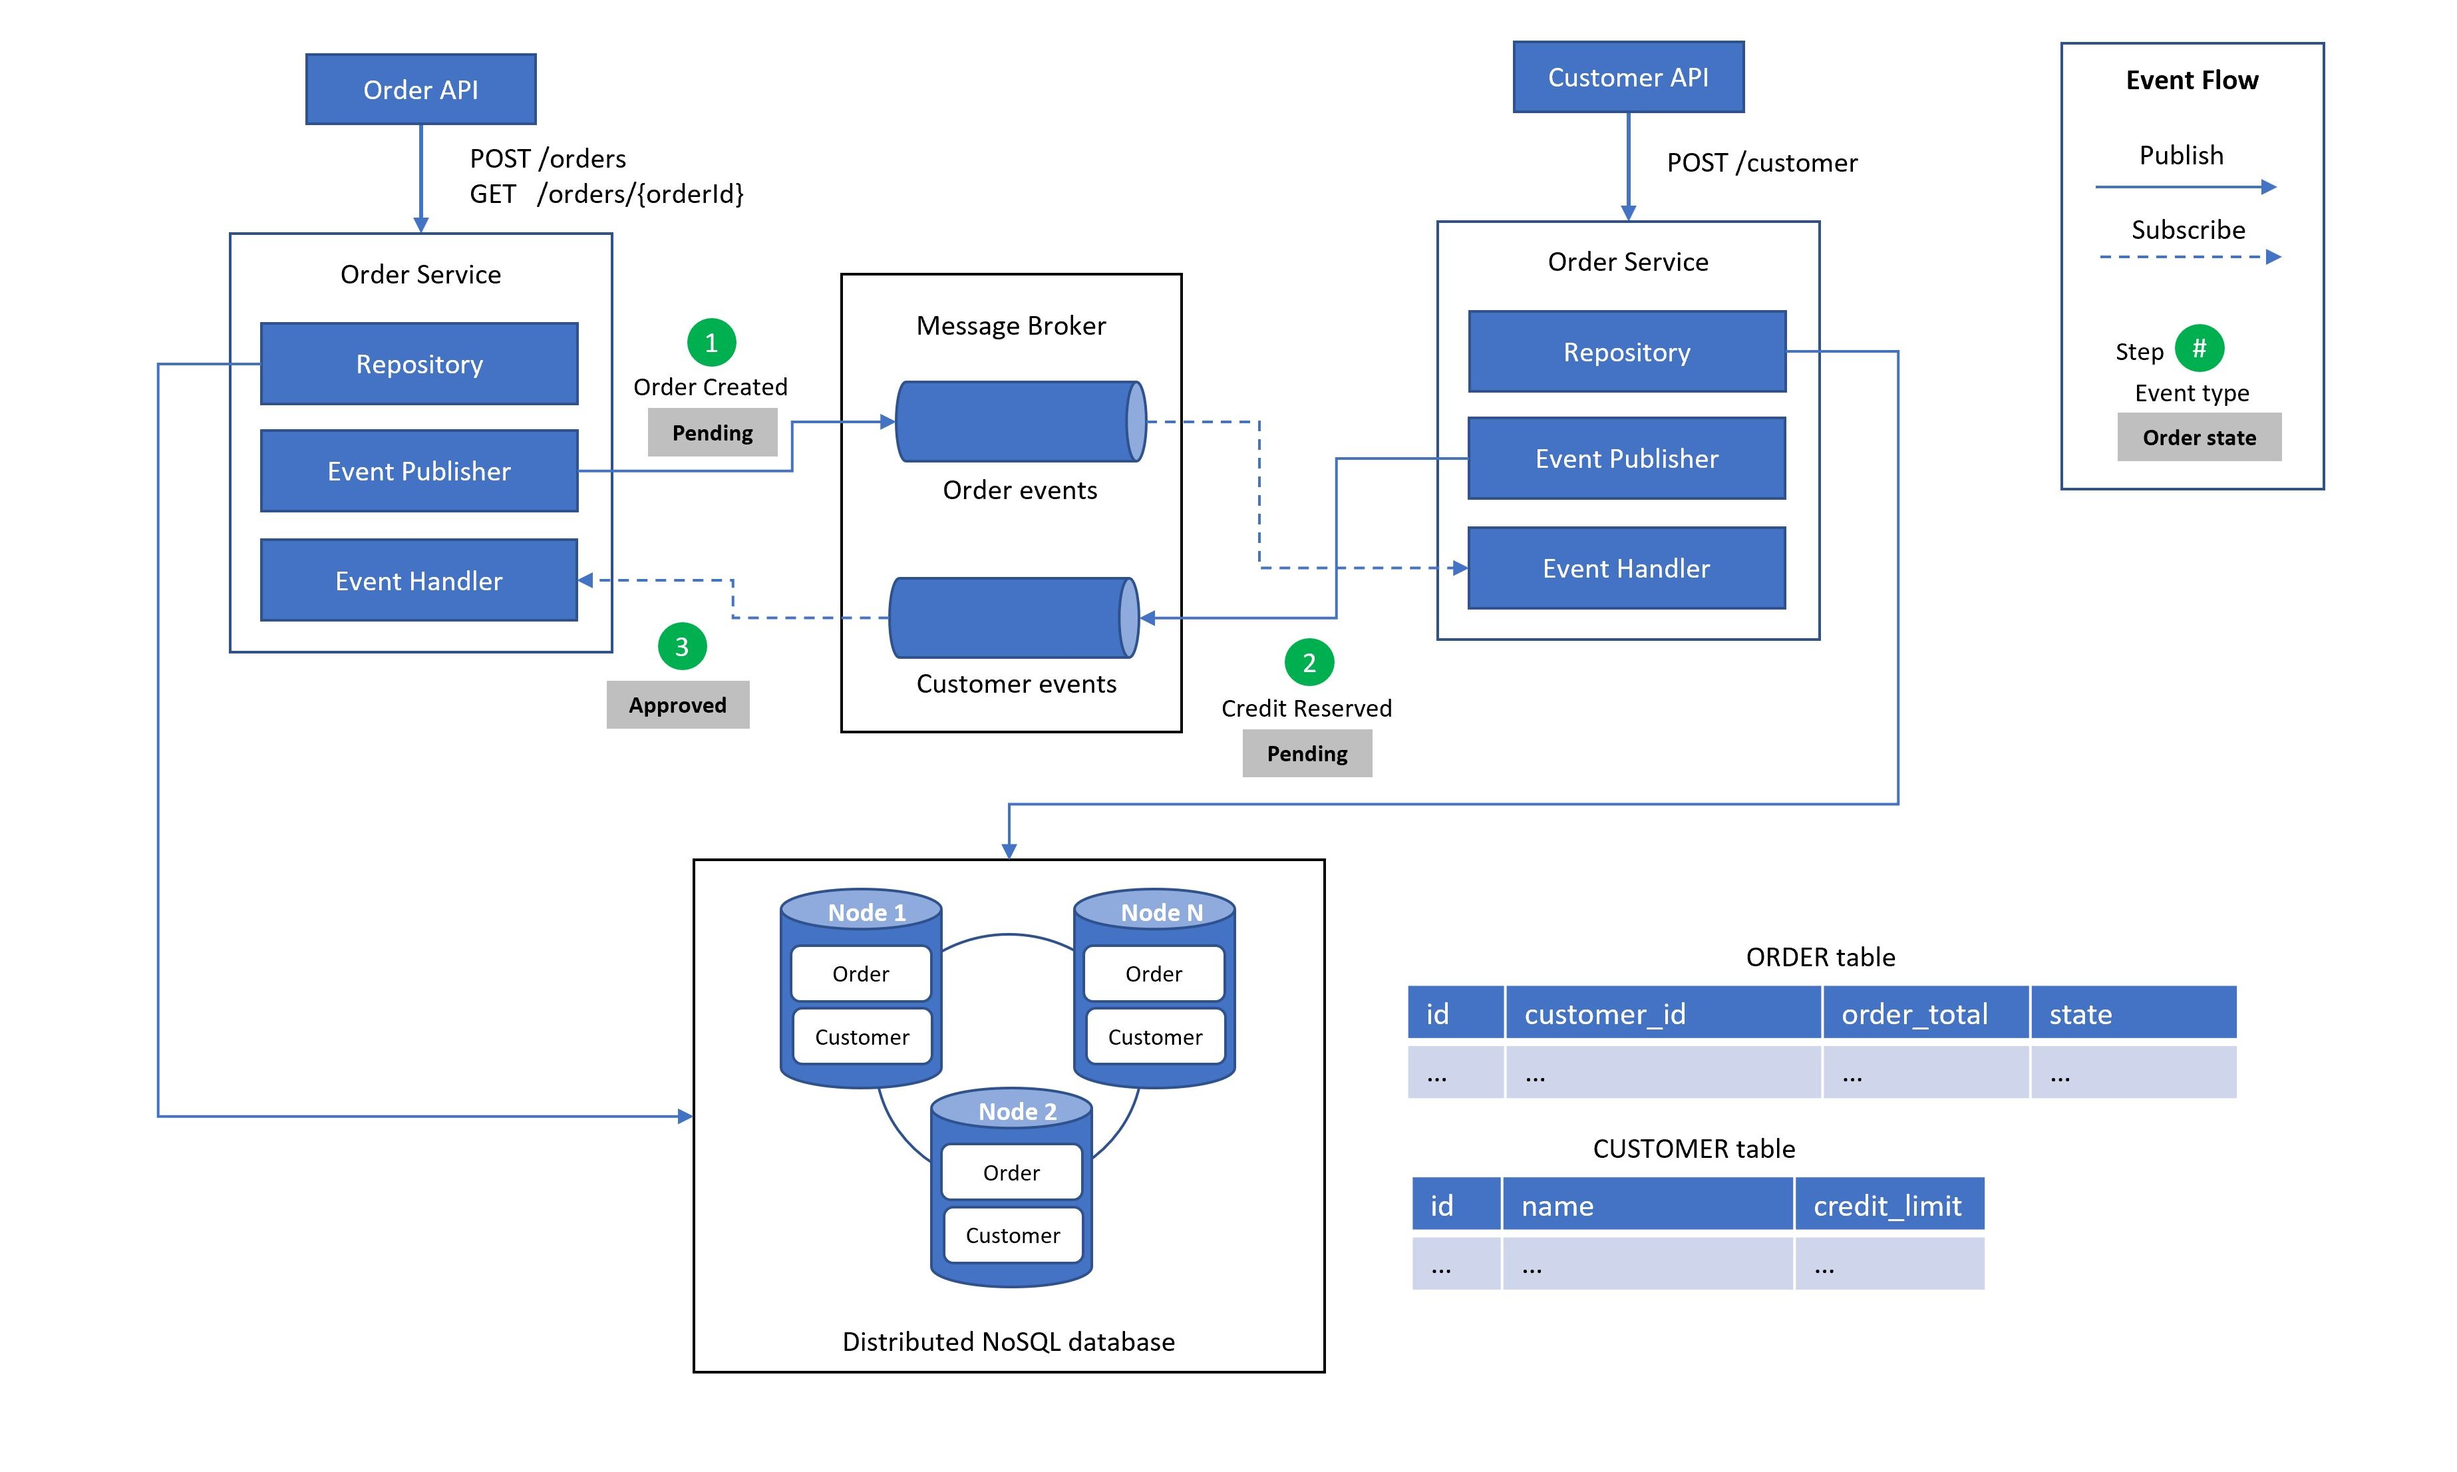
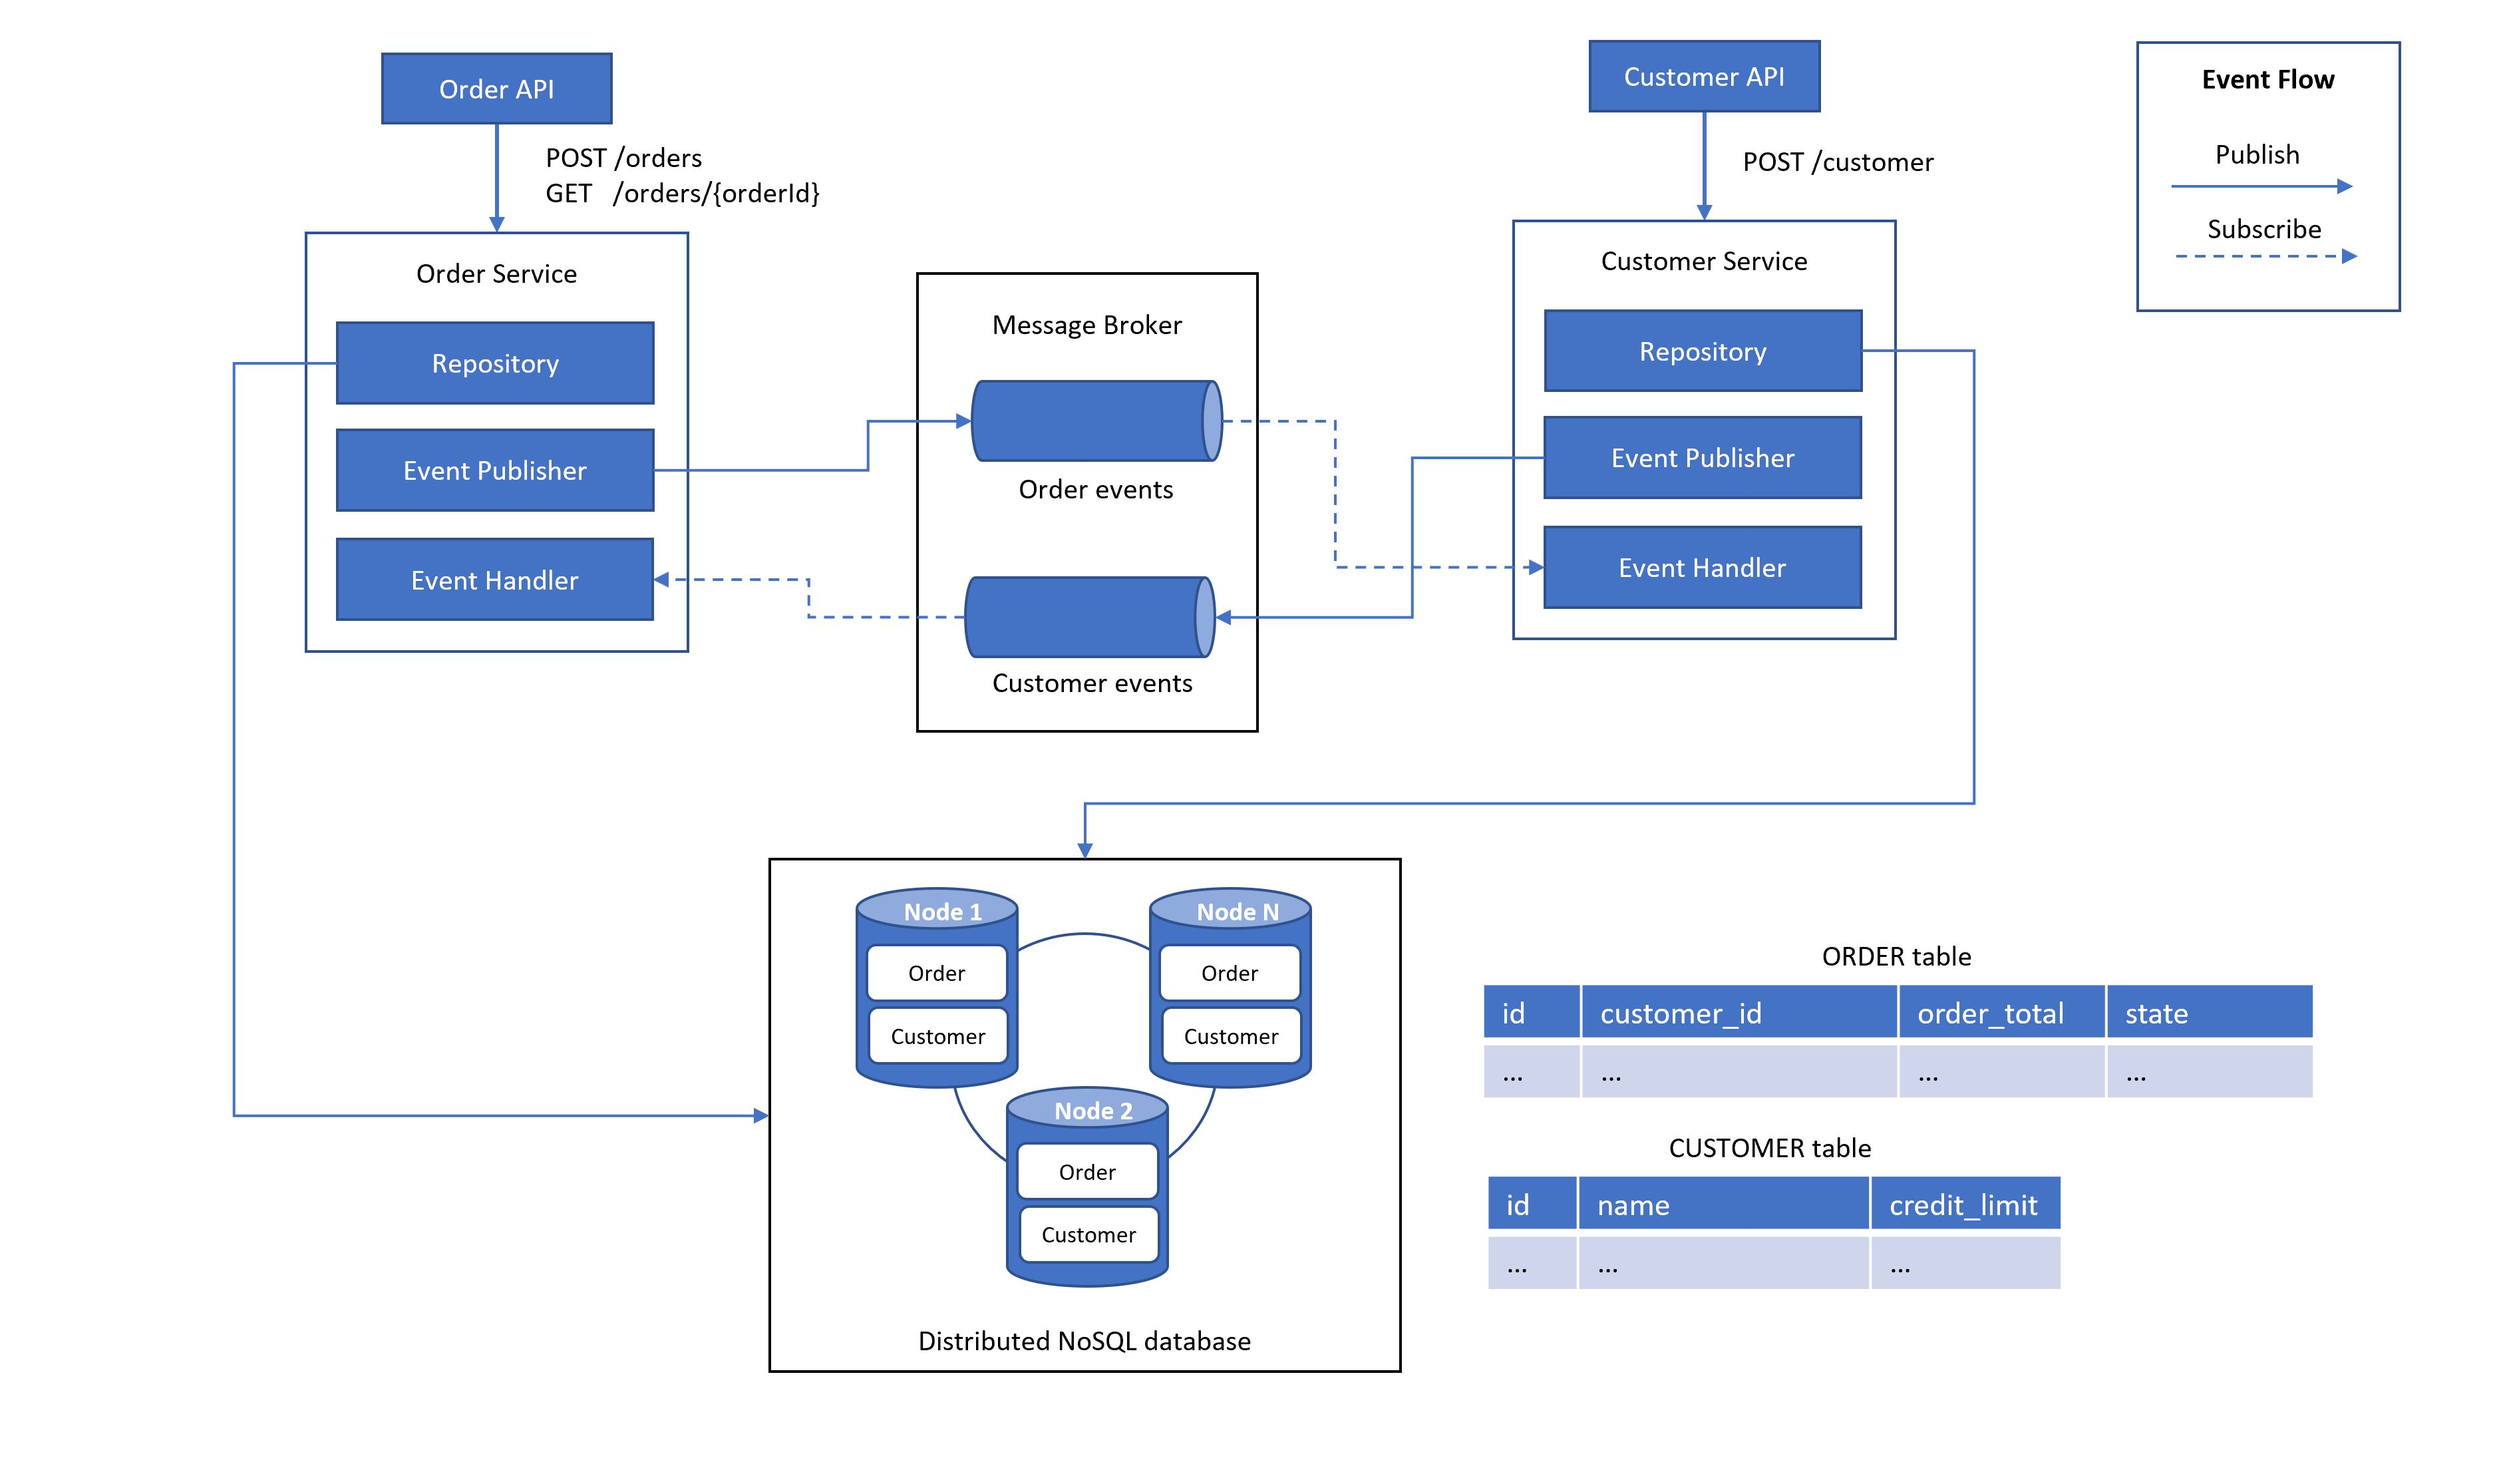
README updated

diff --git a/README.md b/README.md
@@ -7,6 +7,65 @@ Services are implemented through choreography-based sagas, which means that all 
 ## Architecture Overview
 ![Architecture Overview](./images/architecture_overview.JPG)
 
+### Architecture Components
+
+- The `Order API` is a Java/Spring Boot RESTful service with routes to create a new order and get details of an existing order.
+
+- The  `Order Service` is a saga participant written in Java/Spring Boot that receives requests from the Order API. It starts local transactions with a distributed database (Datastax Cassandra) to create a new order or query info about an existing order. After the creation of these local transactions, it publishes order events to the message broker (Apache Kafka). Additionally, there is an event handler that subscribes to a `Customer Topic` to receive customer events.
+
+- The `Customer API` is a Java/Spring Boot RESTful service with a route to create a new customer.
+
+- The  `Customer Service` is a saga participant written in Java/Spring Boot that receives requests from the Customer API. It starts local transactions with a distributed database (Datastax Cassandra) to create a new customer. After the creation of these local transactions, it publishes customer events to the message broker (Apache Kafka). Additionally, there is an event handler that subscribes to an `Order Topic` to receive order events.
+
+### Architecture Notes 
+
+- It is not mandatory to use a highly scalable distributed NoSQL database (like Datastax Cassandra) for local transactions for each saga participant, you can use a SQL or NoSQL database of your choice.
+
+- It is not mandatory to use Apache Kafka as a message broker, you can use another one of your choice (like RabbitMQ, Azure Event Hub, etc).
+
+## Architecture: A Successful Scenario
+
+![Architecture Overview](./images/architecture_happy_path.JPG)
+
+1. The `Order Service` creates an `Order` in a **PENDING** state and publishes an `OrderCreated` event.
+
+2. The `Customer Service` receives the `OrderCreated` event and attempts to reserve credit for that order. It publishes a `CreditReserved` event and the order state is still **PENDING**.
+
+3. The `Order Service` receives the `CreditReceived` event and changes the order state to **APPROVED**.
+
+## Architecture: A Failure Scenario
+
+![Architecture Overview](./images/architecture_fail.JPG)
+
+1. The `Order Service` creates an `Order` in a **PENDING** state and publishes an `OrderCreated` event.
+
+2. The `Customer Service` receives the `OrderCreated` event and attempts to reserve credit for that order. It publishes a `CreditLimitExceeded` event and the order state is still **PENDING**.
+
+3. The `Order Service` receives the `CreditLimitExceeded` event and changes the order state to **REJECTED**.
+
+## Getting Started: Prerequisites
+
+- Java 8 (OpenJDK or Oracle JDK)
+- Docker for Windows or Linux
+
+## Building and Running: Order services
+
+Go to `src/order` and build the application:
+
+```
+./gradlew assemble
+```
+
+Note: you do not need to install Gradle since it will be downloaded automatically, you just need to have Java 8 installed.
+
+Run the application:
+
+```
+./gradlew build && java -jar order-api/build/libs/order-api-0.1.0.jar
+```
+
+Next you can use the Order API through Swagger UI on `http://localhost:8080/swagger-ui.html`.
+
 ## References
 
 - [Book: Microservices Patterns](https://www.manning.com/books/microservices-patterns)
